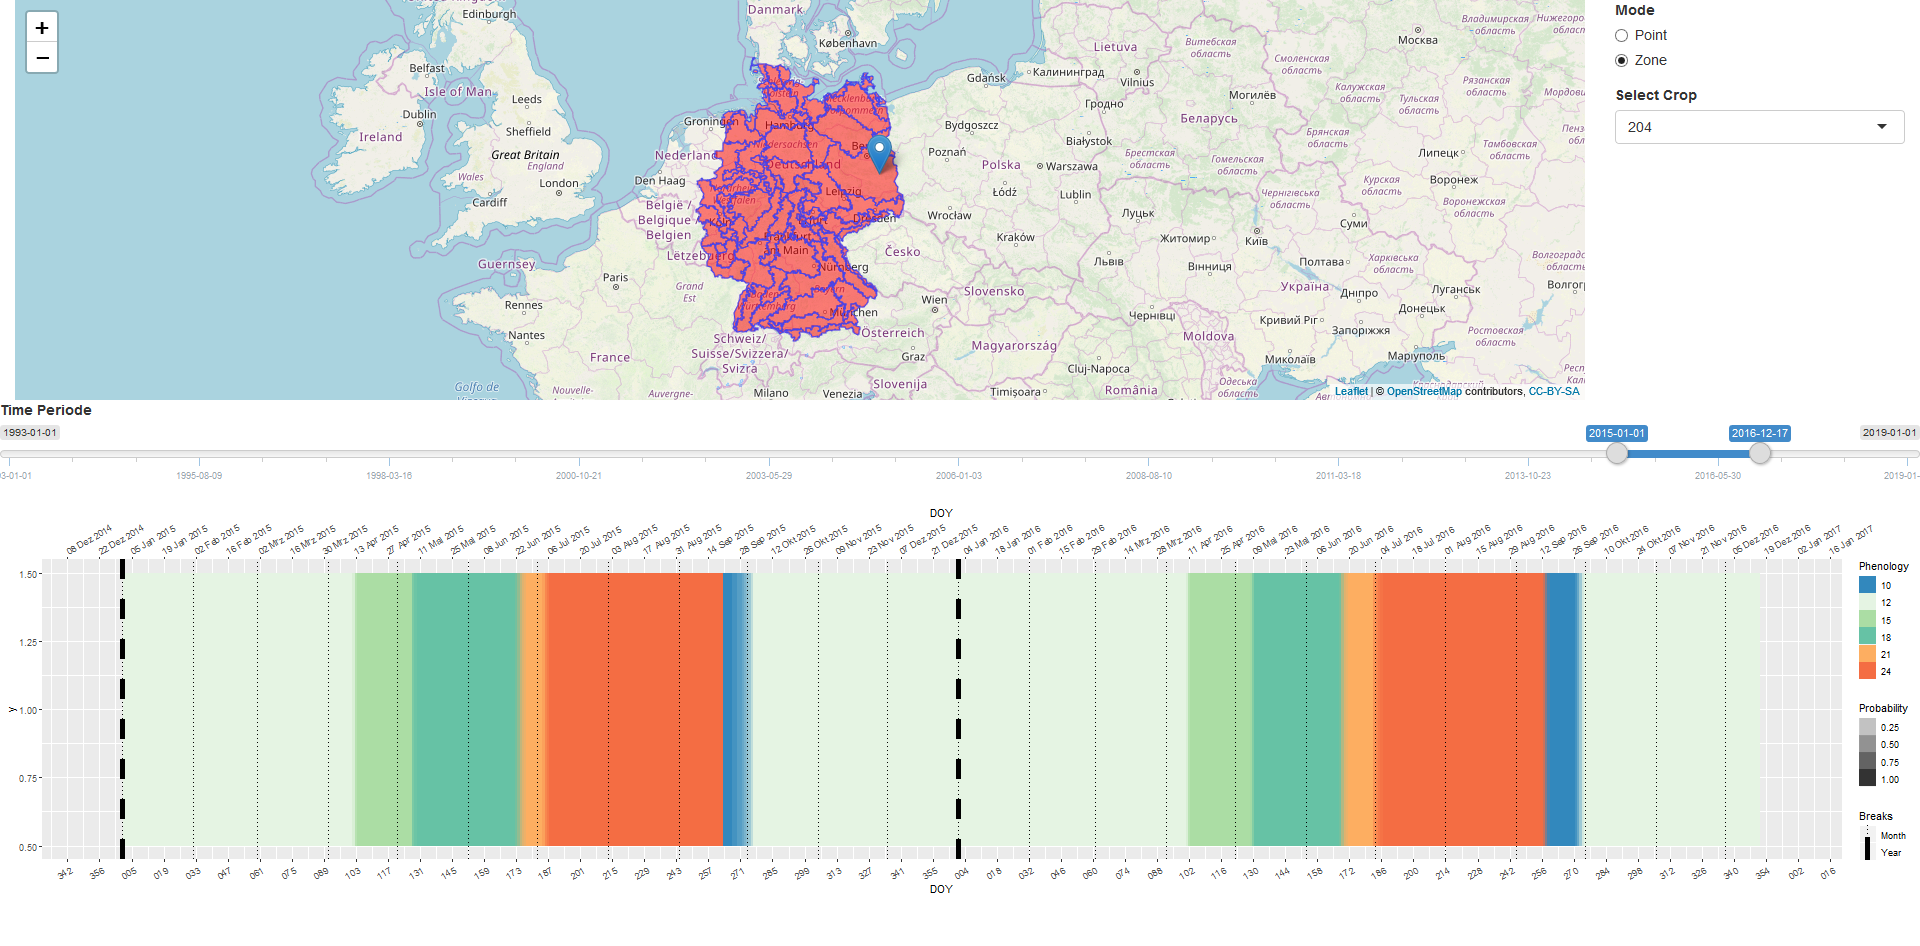
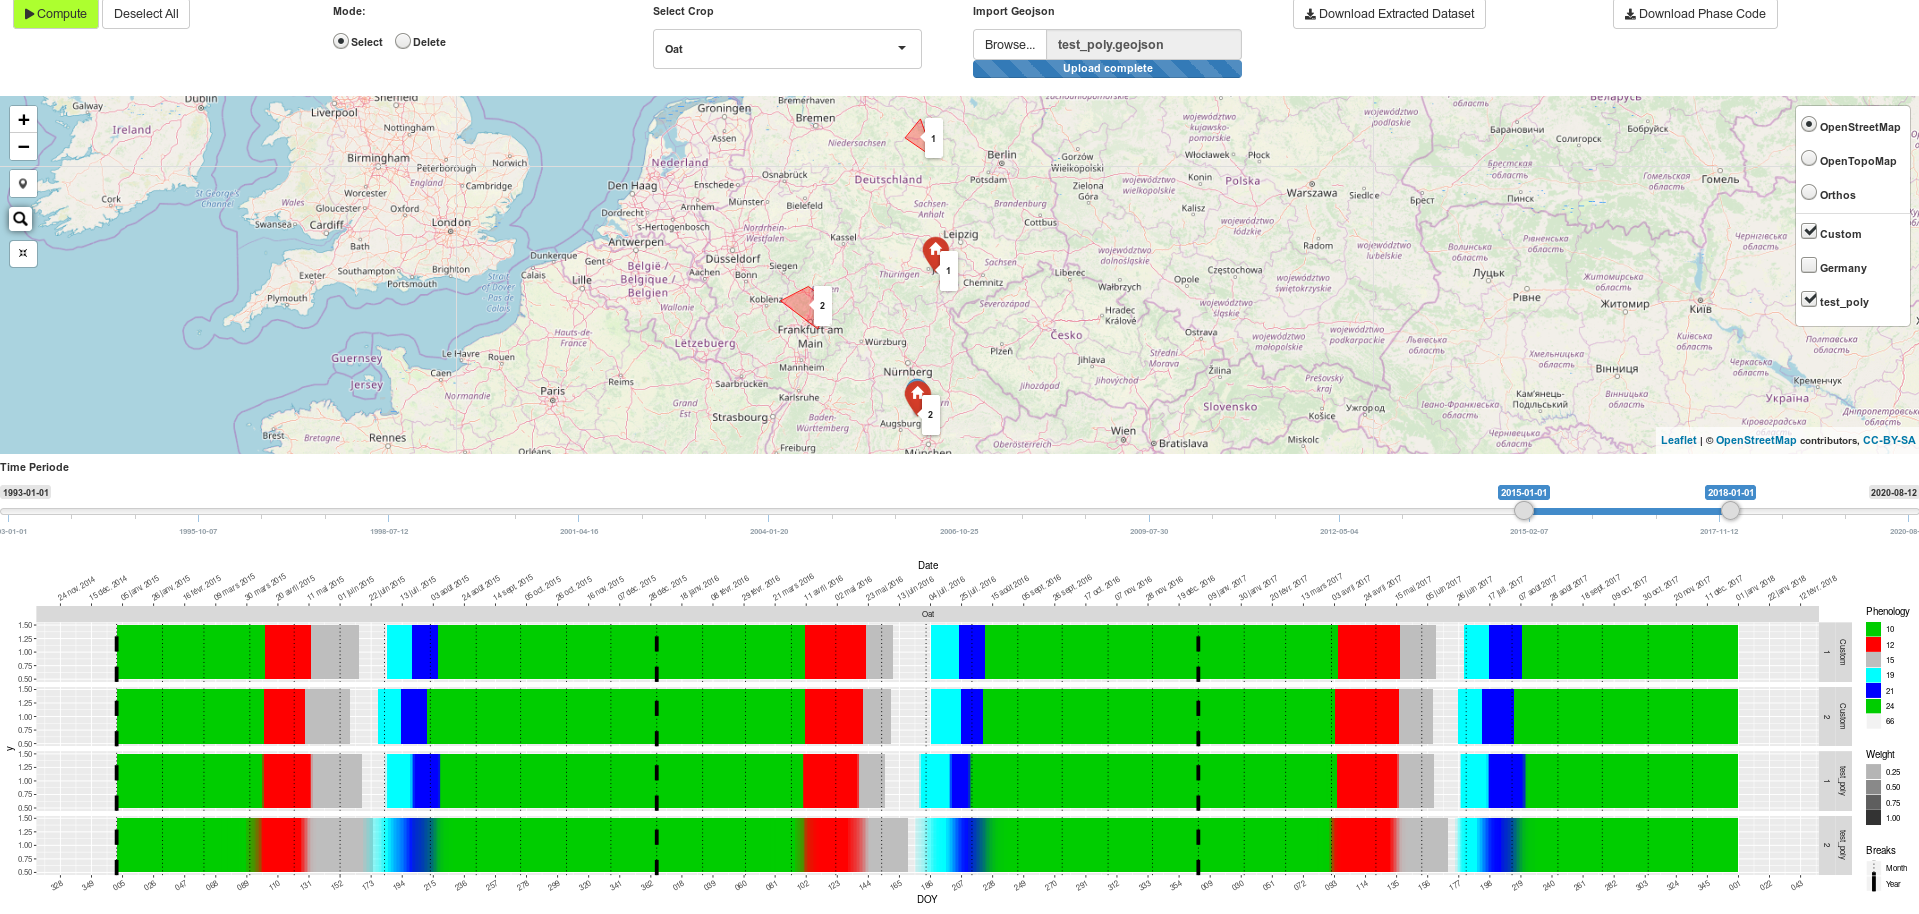
readme update

diff --git a/README.md b/README.md
@@ -1,8 +1,5 @@
-<style>
-img + em { display: block; text-align: center;}
-</style>
 # PhenoWin
-Shiny application to draw phenological windows  
+Shiny application to draw phenological windows.
 
 ## Setup
 ### Input Geotif Files
@@ -16,7 +13,7 @@ DOY_201-1_1993.tif
 DOY_201-1_1997.tif
 ```
 ### Data Generation
-Launch **Extract_Pheno_Shapefile.R** to generate in the data used by the app in
+Launch **Extract_Pheno_Shapefile.R** to generate the data used by the app in
 the **_Data** folder.
 ## Usage
 Launch **Graph_Pheno.R** to start the app.
@@ -26,47 +23,26 @@ Launch **Graph_Pheno.R** to start the app.
 ### Data selection
 
 The *Mode* radiobutton enable two modes:
-+ Point mode:  
-  The user click on the map to choose the pixel from where the data must be taken.
-  The data extraction can take a long time.
++ Select mode:  
+  The user click on the entities of the map to select them. The selected red entities
+  will be used to create the map.
 + Zone mode:  
-  The user click on one of the zone displayed on the map. The data have been previously processed and aggregated by the **Extract_Pheno_Shapefile.R** script. Because of that, the
-  data extraction is faster in this mode than in the point mode.
+  The user click on an entity on the map to delete it.
 
 ### Phenologyical windows graph
 The graph is drawn according to the data selected by the user. Its limits are
 determined by the time slider.  
 Each phenological window is drawn on top of the previous one. The alpha value
-correspond to the probability that the phenological stage have been reached.
-Considere the following example:
+correspond to the proportion of pixel that reached a phenological phase.
+This situation can be visualized in the bottom time line of the following graph.
 ![dashboard](_Images/graph_example.png)
-In 2010, The phase 21 start on 24/06 and end on the 16/07. Nevertheless, the
-phase 24 start on 09/07. The overlapping period from 09/07 to 16/07 can be
-visualised with the transparence of the phase 24. the transparence value is
-the proportion of pixel in the area that reached the phase 24.
-
-# Repository description
-## variables_pheno
-Store the relativ paths to the folders of the app.
-## Functions_Pheno.R
-Functions to extract the data from the geotif.  
-Functions to prepare the dataset for the ggplot graph.
-## \_Zones
-Contain the shapefiles used for the app.
-###### DEU_adm0
-The border of germany.  
-Used by the Shiny package to detect a click on the German territory.
-###### gem2005_BKR
-Areas used by the Zone mode. There is 3 versions, from the simplest to the most
-complexe:  
-gem2005_BKR > gem2005_BKR_simple > gem2005_BKR_low
-## \_Data
-The data for the app. Generated by **Extract_Pheno_Shapefile.R**
 
 # R packages
 + tidyverse
++ scales
 + lubridate
 + shiny
 + leaflet
++ leaflet.extras
 + raster
-+ sp
++ sf
